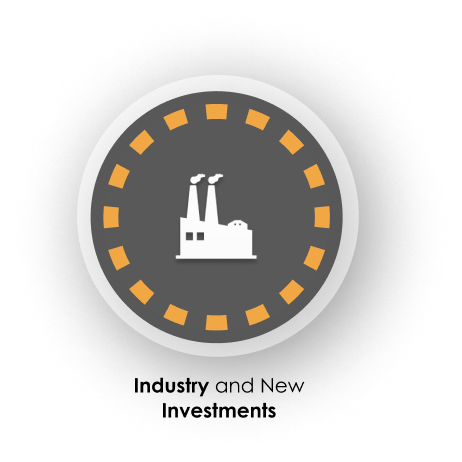
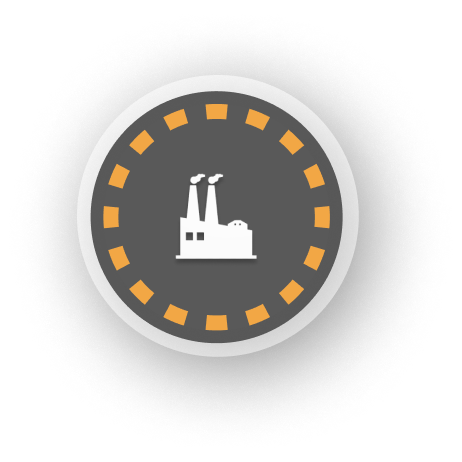
new changes

Changed region(s): [[0.2727, 0.8182, 0.6667, 0.8485], [0.3333, 0.8788, 0.6061, 0.9091]]

diff --git a/src/ScreenComponents/AboutComponents/Opportunities.jsx b/src/ScreenComponents/AboutComponents/Opportunities.jsx
@@ -1,37 +1,34 @@
 import React from 'react';
 import { Container, Col, Row } from 'react-bootstrap';
-// import animal from '../../Assets/Assets/Aboutpage/animal.png';
-// import pollution from '../../Assets/Assets/Aboutpage/pollution.png';
-// import safety from '../../Assets/Assets/Aboutpage/safety.png';
-import health from "../../Assets/Assets/Aboutpage/health.png"
-import road from "../../Assets/Assets/Aboutpage/road.png"
-import truck from "../../Assets/Assets/Aboutpage/truck.png"
-import social from "../../Assets/Assets/Aboutpage/social.png" 
-import industry from "../../Assets/Assets/Aboutpage/industry.png"
-import education from "../../Assets/Assets/Aboutpage/education.png"
-
+import health from "../../Assets/Assets/Aboutpage/health.png";
+import road from "../../Assets/Assets/Aboutpage/road.png";
+import truck from "../../Assets/Assets/Aboutpage/truck.png";
+import social from "../../Assets/Assets/Aboutpage/social.png";
+import industry from "../../Assets/Assets/Aboutpage/industry.png";
+import education from "../../Assets/Assets/Aboutpage/education.png";
 
 const opportunitiesData = [
-    { imgSrc: health },
-    { imgSrc: road, },
-    { imgSrc: truck, },
-    { imgSrc: social, },
-    { imgSrc: industry, },
-    { imgSrc: education,},
-    
+    { imgSrc: health, text: "Health" },
+    { imgSrc: road, text: "Roads (Intra-city\nand Intercity) Connectivity" },
+    { imgSrc: truck, text: "Smooth & Disciplined\nCity Traffic" },
+    { imgSrc: social, text: "Social Awareness\n& Use of RTI" },
+    { imgSrc: industry, text: "Industry\nand New Investments" },
+    { imgSrc: education, text: "Education" },
 ];
 
 const Opportunities = () => {
     return (
         <>
             <Container fluid className='oppobg mt-lg-5 pb-lg-5 pt-lg-4'>
-                <h1 className='oppoheadline pt-lg-5'>Objectives of  ANF</h1>
+                <h1 className='oppoheadline pt-lg-5 text-center'>Objectives of ANF</h1>
                 <Container>
-                    <Row className='mt-lg-2  '>
+                    <Row className='mt-lg-2 justify-content-center mx-5'>
                         {opportunitiesData.map((item, index) => (
-                            <Col lg={4}  className={item.pb ? 'pb-lg-5 '  : ''} key={index}>
-                                <img src={item.imgSrc} className='oppoimg' style={{ marginTop: item.marginTop || '0px' }} />
-                                <text className='oppoimgtext' dangerouslySetInnerHTML={{ __html: item.text }} />
+                            <Col lg={4} md={6} sm={12} className='d-flex flex-column align-items-center text-center' key={index}>
+                                <div className="d-flex flex-column align-items-center">
+                                    <img src={item.imgSrc} className='oppoimg img-fluid ' alt={item.text} />
+                                    <p className='oppoimgtext' style={{ whiteSpace: 'pre-wrap' }}>{item.text}</p>
+                                </div>
                             </Col>
                         ))}
                     </Row>
@@ -39,6 +36,6 @@ const Opportunities = () => {
             </Container>
         </>
     );
-}
+};
 
 export default Opportunities;

diff --git a/src/ScreenComponents/EventsComponents/Upcomingevents.jsx b/src/ScreenComponents/EventsComponents/Upcomingevents.jsx
@@ -1,8 +1,8 @@
-import React from 'react'
-import { Container, Row, Col } from 'react-bootstrap'
-import upcomingbanner from "../../Assets/Assets/Pastevents/upcomingbanner.png"
-import "../../Components/Upcomingevents.css"
-import upcoming1 from "../../Assets/Assets/Upcomingevents/upcoming1.png"
+import React from 'react';
+import { Container, Row, Col } from 'react-bootstrap';
+import upcomingbanner from "../../Assets/Assets/Pastevents/upcomingbanner.png";
+import "../../Components/Upcomingevents.css";
+import upcoming1 from "../../Assets/Assets/Upcomingevents/upcoming1.png";
 
 const eventsData = [
   {
@@ -44,10 +44,10 @@ const Upcomingevents = () => {
               <Row>
                 <Col lg={4}></Col>
                 <Col lg={8} className='text-start coll '>
-                  <p className='upcomingtext1 mb-0 ms-3'>Time Duration <span className='soontext'>COMING SOON</span></p>
-                  <Container className='soonbox' style={{marginLeft:"420px"}}>05</Container>
-                  <Container className='soonbox'style={{marginLeft:"470px"}}>55</Container>
-                <Container className='soonbox' style={{marginLeft:"520px"}}>00</Container>
+                  <p className='upcomingtext1 mb-0 ms-3 '>Time Duration <span className='soontext d-none d-md-block'>COMING SOON</span></p>
+                  <Container className='soonbox d-none d-md-block' style={{ marginLeft: "420px" }}>05</Container>
+                  <Container className='soonbox d-none d-md-block' style={{ marginLeft: "470px" }}>55</Container>
+                  <Container className='soonbox d-none d-md-block' style={{ marginLeft: "520px" }}>00</Container>
                   <p className='upcomingtext2 mb-0 ms-3'>{event.timeDuration}</p>
                   <p className='upcomingtext1 mb-0 ms-3'>Area</p>
                   <p className='upcomingtext2 mb-0 ms-3'>{event.area}</p>
@@ -60,17 +60,16 @@ const Upcomingevents = () => {
                       </React.Fragment>
                     ))}
                   </p>
-
-
                 </Col>
               </Row>
             </Container>
-            <img src={event.image} className='eventimg' alt="Event" />
+            {/* Hide event image on mobile view using d-none and d-md-block */}
+            <img src={event.image} className='eventimg d-none d-md-block' alt="Event" />
           </React.Fragment>
         ))}
       </Container>
     </>
-  )
-}
+  );
+};
 
-export default Upcomingevents
+export default Upcomingevents;

diff --git a/src/ScreenComponents/HomeComponents/Homecounter.jsx b/src/ScreenComponents/HomeComponents/Homecounter.jsx
@@ -110,16 +110,16 @@ const Homecounter = () => {
                 <div className="circle d-none d-md-block position-absolute top-50 start-100 translate-middle" style={{ width: "250px" }}></div>
               </div>
             </Col>
-            <Col xl={7} xxl={10} md={10} lg={10} className='mt-4 whitebox'>
+            <Col xl={7} xxl={10} md={10} lg={10} className='mt-4 whitebox '>
               <div>
-                <h2 className='text-start pt-4 pb-1 ms-4 ms-md-3 whiteboxheadline '>School / College / Organization <span style={{ color: '#F96945' }}>Training</span></h2>
+                <h2 className='text-start pt-4 pb-1 ms-4 ms-md-3  whiteboxheadline '>School / College / Organization <span style={{ color: '#F96945' }}>Training</span></h2>
                 <h6 className='text-start ms-4 ms-md-3 rto'>
                   <b>To increase awareness about Traffic Safety, we organize<br /> Road Safety Traffic Awareness Workshops free of cost.</b><br />
                 </h6>
                 <p className='text-start ms-4 ms-md-3 rto'>
-                  This programme is exclusively designed for school students<br />
-                  and adults, such as college students, employees working in<br /> various
-                  organizations, rickshaw drivers, bus drivers, and other<br /> adult groups.
+                  This programme is exclusively designed for school students
+                  and adults, such as college students, employees working in various
+                  organizations, rickshaw drivers, bus drivers, and other adult groups.
                 </p>
               </div>
               <Row className=" whiteboxbtn ms-lg-5 mt-lg-3 ">
@@ -129,7 +129,7 @@ const Homecounter = () => {
                   </div>
                 </Col>
                 <Col xs={10} sm={6} md={6} lg={7}>
-                  <div className='license pt-lg-2 pt-md-1 text-center mb-3' style={{ width: "320px" }}>
+                  <div className='license pt-lg-2 pt-md-1 text-center mt-4' style={{ width: "320px" }}>
                     <h5 className='mt-2'>Adults (College / Organization)</h5>
                   </div>
                 </Col>

diff --git a/src/ScreenComponents/InvestorComponents/Annualreport.jsx b/src/ScreenComponents/InvestorComponents/Annualreport.jsx
@@ -38,7 +38,7 @@ const AnnualReport = () => {
         </Container>
         <div >
           <Container className='position-absolute start-50 translate-middle'>
-            <Card className='p-5 rounded-4 bg-white border-top-0 border-end-0 border-start-0 shadow-lg mt-5' style={{ borderBottom: "5px solid red", zIndex: 1 }}>
+            <Card className='p-5 rounded-4 bg-white border-top-0 border-end-0 border-start-0 shadow-lg mt-5' style={{ borderBottom: "10px solid ", borderColor:"#F96945", zIndex: 1 }}>
               {
                 reports.map((report, index) => {
                   return (
@@ -60,15 +60,15 @@ const AnnualReport = () => {
       {/* Mobile View */}
 
       <section>
-        <Container fluid className='p-0 pt-5 pb-4'>
+        <Container fluid className='p-0 pt-5 pb-4 investorbg'>
           <h1 className='fw-bold '>Annual Reports</h1>
         </Container>
-        <Container fluid className='p-0 py-5'>
+        <Container fluid className='p-0 py-5 investorbg'>
           <h1 className='fw-bold '></h1>
         </Container>
         <div >
           <Container className='position-absolute start-50 translate-middle'>
-            <Card className='p-5 rounded-4 bg-white border-top-0 border-end-0 border-start-0 shadow-lg mt-5' style={{ borderBottom: "5px solid red", zIndex: 1 }}>
+            <Card className='p-5 rounded-4 bg-white border-top-0 border-end-0 border-start-0 shadow-lg mt-5' style={{ borderBottom: "10px solid ", borderColor:"#F96945", zIndex: 1}}>
               {
                 reports.map((report, index) => {
                   return (

diff --git a/src/Components/Investor.css b/src/Components/Investor.css
@@ -1,26 +1,15 @@
-.investorbg{
+.investorbg {
     background: #FFEFEB;
     /* height: 200px; */
     position: relative;
 }
 
-.inverstorheadline{
+.inverstorheadline {
     font-size: 50px;
     font-weight: 800;
     font-family: "Poppins";
 }
-
-.return{
-    height: 200px;
-    width: 1070px !important;
-    background-color: white;
-    position: absolute;
-    border-radius: 20px !important;
-    border-bottom: 8px solid #F96945 !important ;
-    box-shadow: 8px 12px 20px 0px #00000040 !important;
-}
-
-.returntext{
+.returntext {
     font-family: "Poppins";
     font-weight: 600;
     font-size: 30px;
@@ -28,31 +17,21 @@
 }
 
 @media (max-width:768px) {
-    .inverstorheadline{
+    .inverstorheadline {
         font-size: 20px;
     }
-    .investorbg{
+
+    .investorbg {
         height: 100px;
     }
-
-    .return{
-        width: 350px !important;
-        height: 100px !important;
-        margin-left: 20px !important;
-        margin-top: -150px !important;
+    .returntext {
+        font-size: 17px;
     }
-
-    .returntext{
-        font-size: 10px;
-    }
-
-    
 }
 
 @media (max-width:1920px) {
-    .return{
+    .return {
         margin-top: -100px !important;
     }
-    
-}
 
+}

diff --git a/src/Components/Header.css b/src/Components/Header.css
@@ -232,9 +232,9 @@
 
 
 
-@media (min-width: 1350px) and (max-width: 1400px) {
+@media (min-width: 1280px) and (max-width: 1400px) {
     .navMenu {
-        font-size: 16px !important;
+        font-size: 17px !important;
         font-weight: 600 !important;
       }
       .navMenu:hover {
@@ -260,3 +260,12 @@
         font-weight: 700 !important;
     }
 }
+
+/* @media (max-width: 1280px) {
+    .navMenu{
+        font-size: 16px !important;
+    }
+    .event-dropdown .dropdown-toggle:hover{
+        font-size: 10px !important;
+    }
+} */

diff --git a/src/Components/About.css b/src/Components/About.css
@@ -140,7 +140,7 @@
 }
 
 .oppoimg {
-    height: 350px;
+    height: 50px;
     width: 370px;
     position: relative;
 }
@@ -148,8 +148,8 @@
 
 .oppoimgtext {
     position: absolute;
-    margin-top: -70px;
-    margin-left: -45px;
+    margin-top: 300px;
+    /* margin-left: -45px; */
     font-family: "Poppins";
     font-weight: 600;
 }
@@ -177,6 +177,10 @@
     }
     .oppoheadline{
         font-size: 28px;
+    }
+
+    .oppoimgtext{
+        margin-top: 160px;
     }
     .headline{
         font-size: 26px;

diff --git a/src/Components/Upcomingevents.css b/src/Components/Upcomingevents.css
@@ -67,6 +67,19 @@
     .upcomingheadline{font-size: 30px;
     }
     .event{
-        /* width: 300px !important; */
+        width: 290px !important;
+         transform: skewX(0deg);
     }
+    
+    .upcomingtext1{
+        font-size: 20px;
+    }
+    .upcomingtext2{
+        font-size: 15px;
+    }
+    .coll{
+        transform: skewX(0deg);
+
+    }
+   
 }

diff --git a/src/Components/Foundation.css b/src/Components/Foundation.css
@@ -67,3 +67,14 @@
         height: 600px !important;
     }
 }
+
+@media (min-width: 1280px) {
+    .fheadline{
+        font-size: 30px !important;
+    }
+    .group{
+        height: 600px !important;
+        /* width: 600px; */
+    }
+    
+}

diff --git a/src/Components/Vision.css b/src/Components/Vision.css
@@ -43,8 +43,8 @@
     }
 
     .mtext {
-        font-size: 11px !important;
-        text-align: center;
+        font-size: 17px !important;
+        text-align: start;
         /* padding: 20px; */
     }
 
